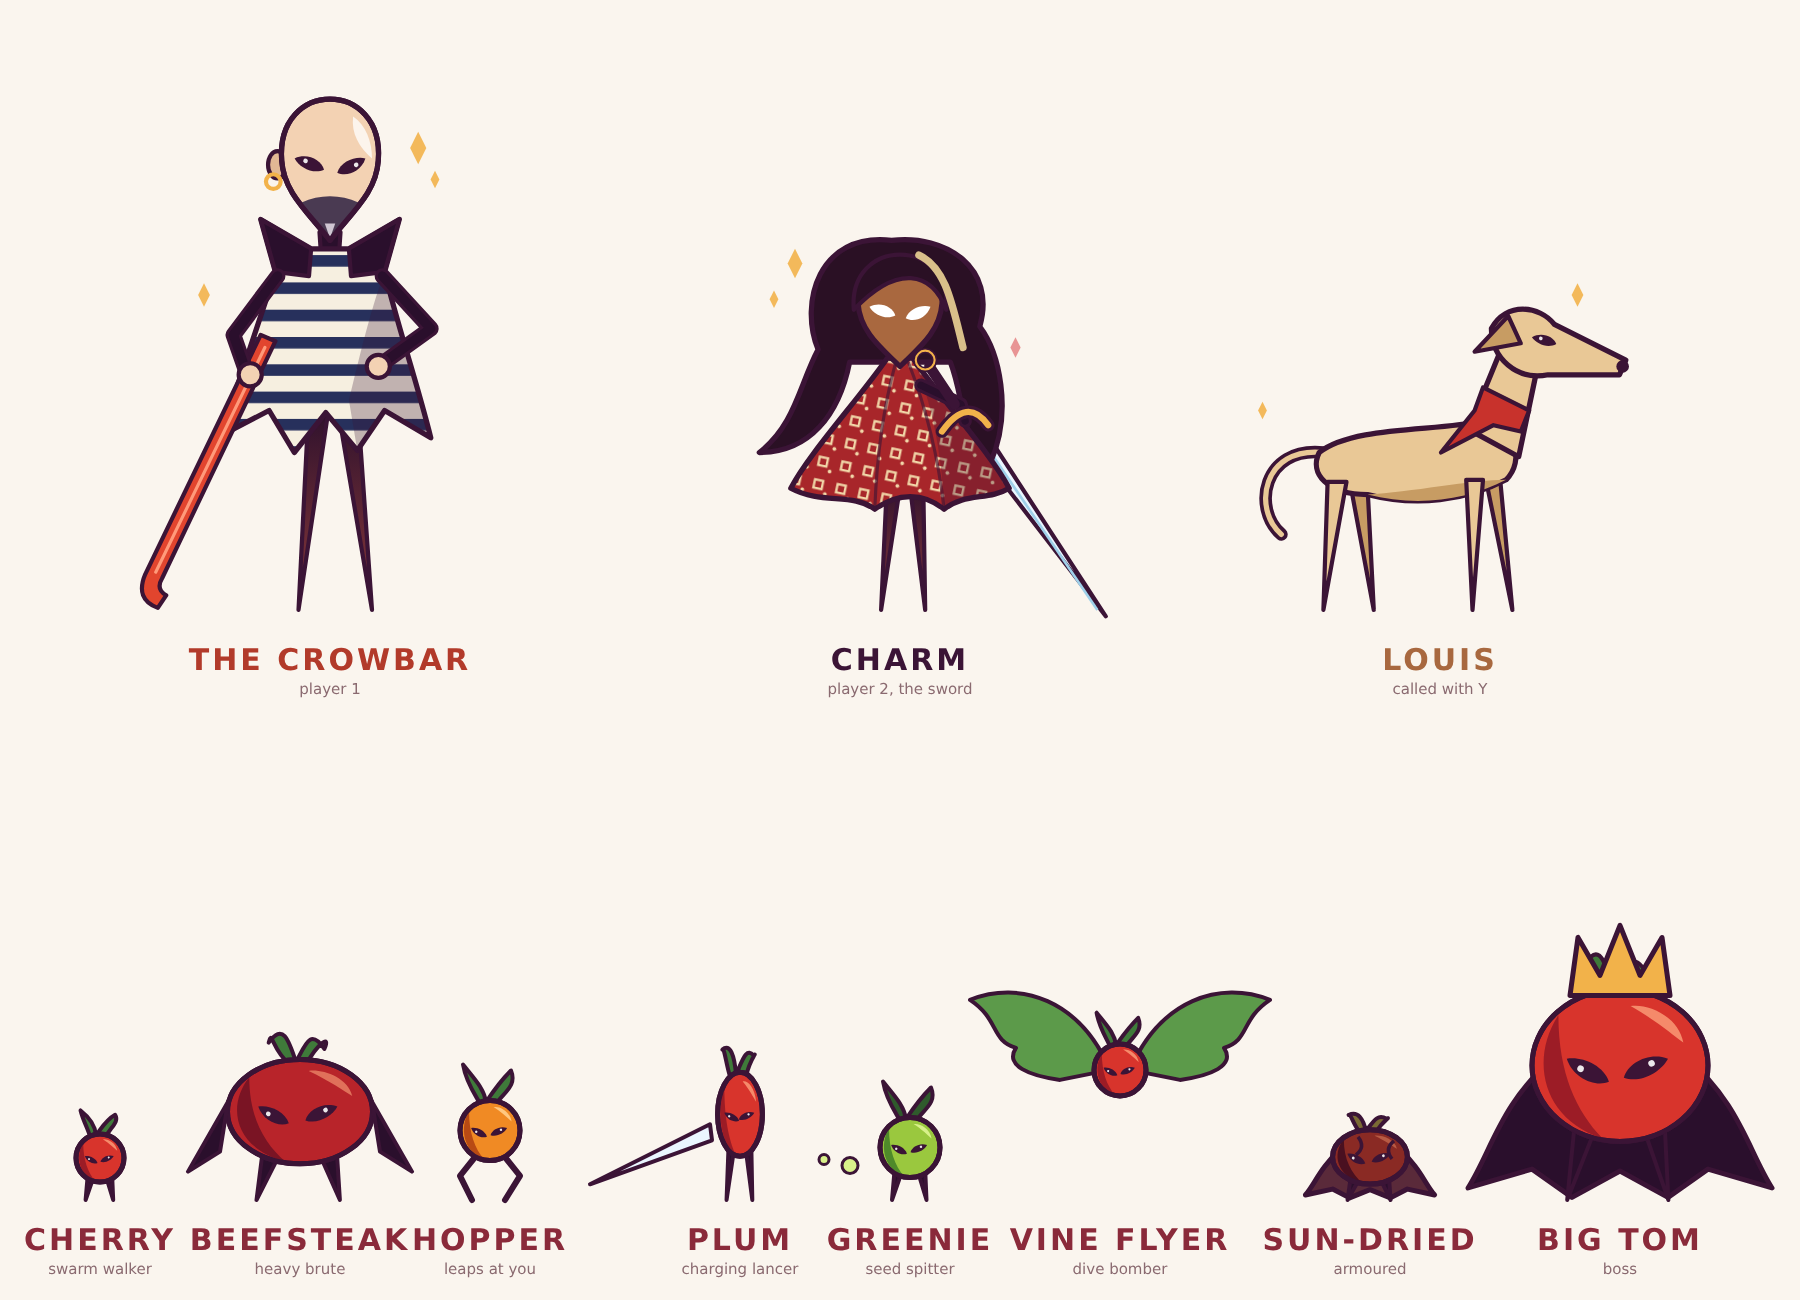
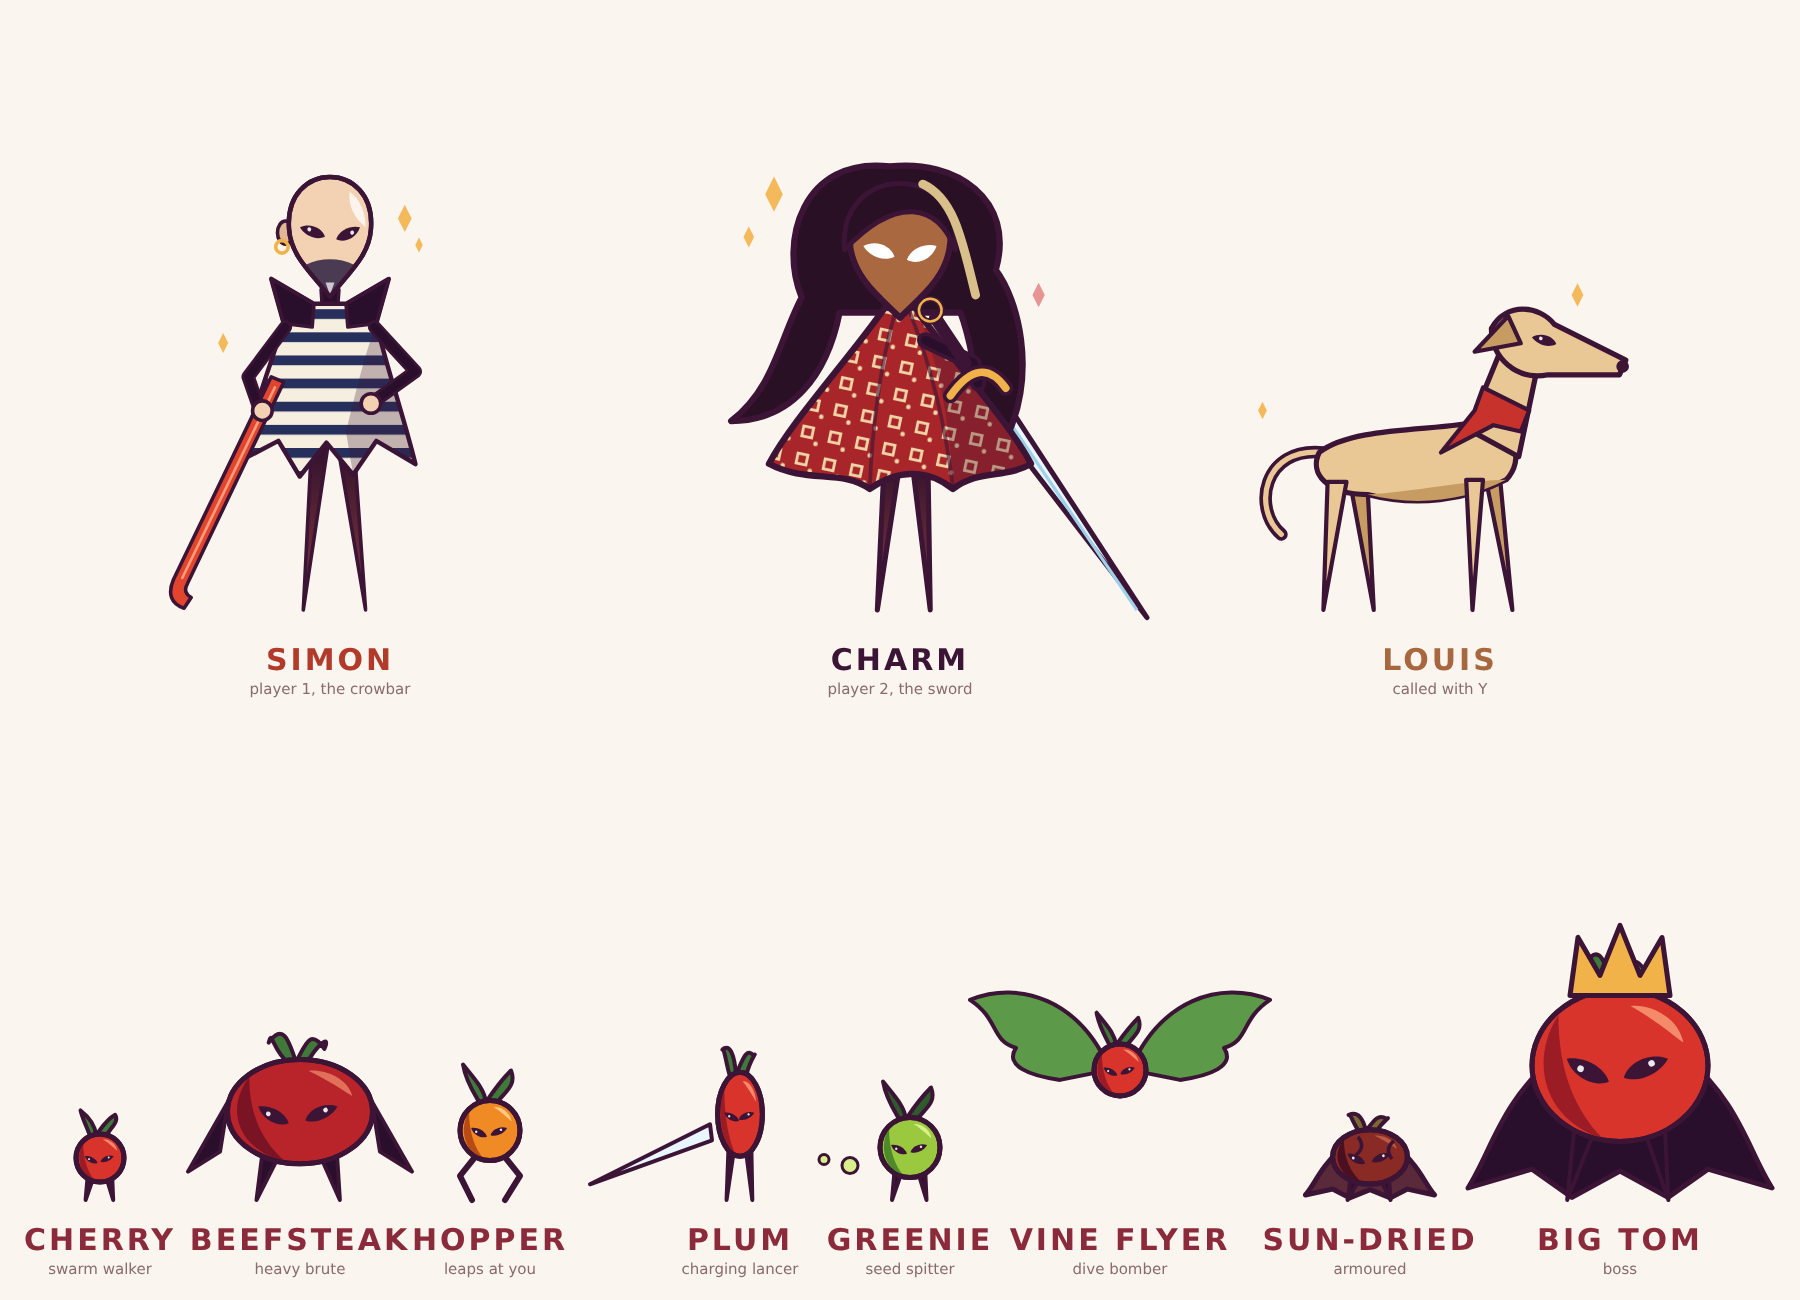
Simon and Charm same height
Claude-Session: https://claude.ai/code/session_017vxjZgBqHx99nWQAueqxKT

Changed region(s): [[0.4044, 0.1231, 0.6533, 0.4615], [0.0622, 0.0615, 0.2489, 0.4615], [0.0933, 0.4923, 0.28, 0.5538]]

diff --git a/design/gen3.py b/design/gen3.py
@@ -113,8 +113,8 @@ def label(x, y, t, s, c='#8a2a3a'):
     return (f'<text x="{x}" y="{y}" text-anchor="middle" font-size="30" font-weight="800" letter-spacing="3" fill="{c}">{t}</text>'
             f'<text x="{x}" y="{y+24}" text-anchor="middle" font-size="15" fill="#8a6a70">{s}</text>')
 p = [DEFS, '<rect width="1800" height="1300" fill="#faf5ee"/>',
-     g(330, 610, hero(), 1.05), label(330, 670, 'THE CROWBAR', 'player 1', '#b23a2a'),
-     g(900, 610, charm(), 1.05), label(900, 670, 'CHARM', 'player 2, the sword', P),
+     g(330, 610, hero(), .89), label(330, 670, 'SIMON', 'player 1, the crowbar', '#b23a2a'),
+     g(900, 610, charm(), 1.26), label(900, 670, 'CHARM', 'player 2, the sword', P),
      g(1420, 610, louis(), 1.05), label(1440, 670, 'LOUIS', 'called with Y', '#a8683f')]
 xs = [100, 300, 490, 740, 910, 1120, 1370, 1620]
 for (n, s, body), x in zip(TOMS, xs):
